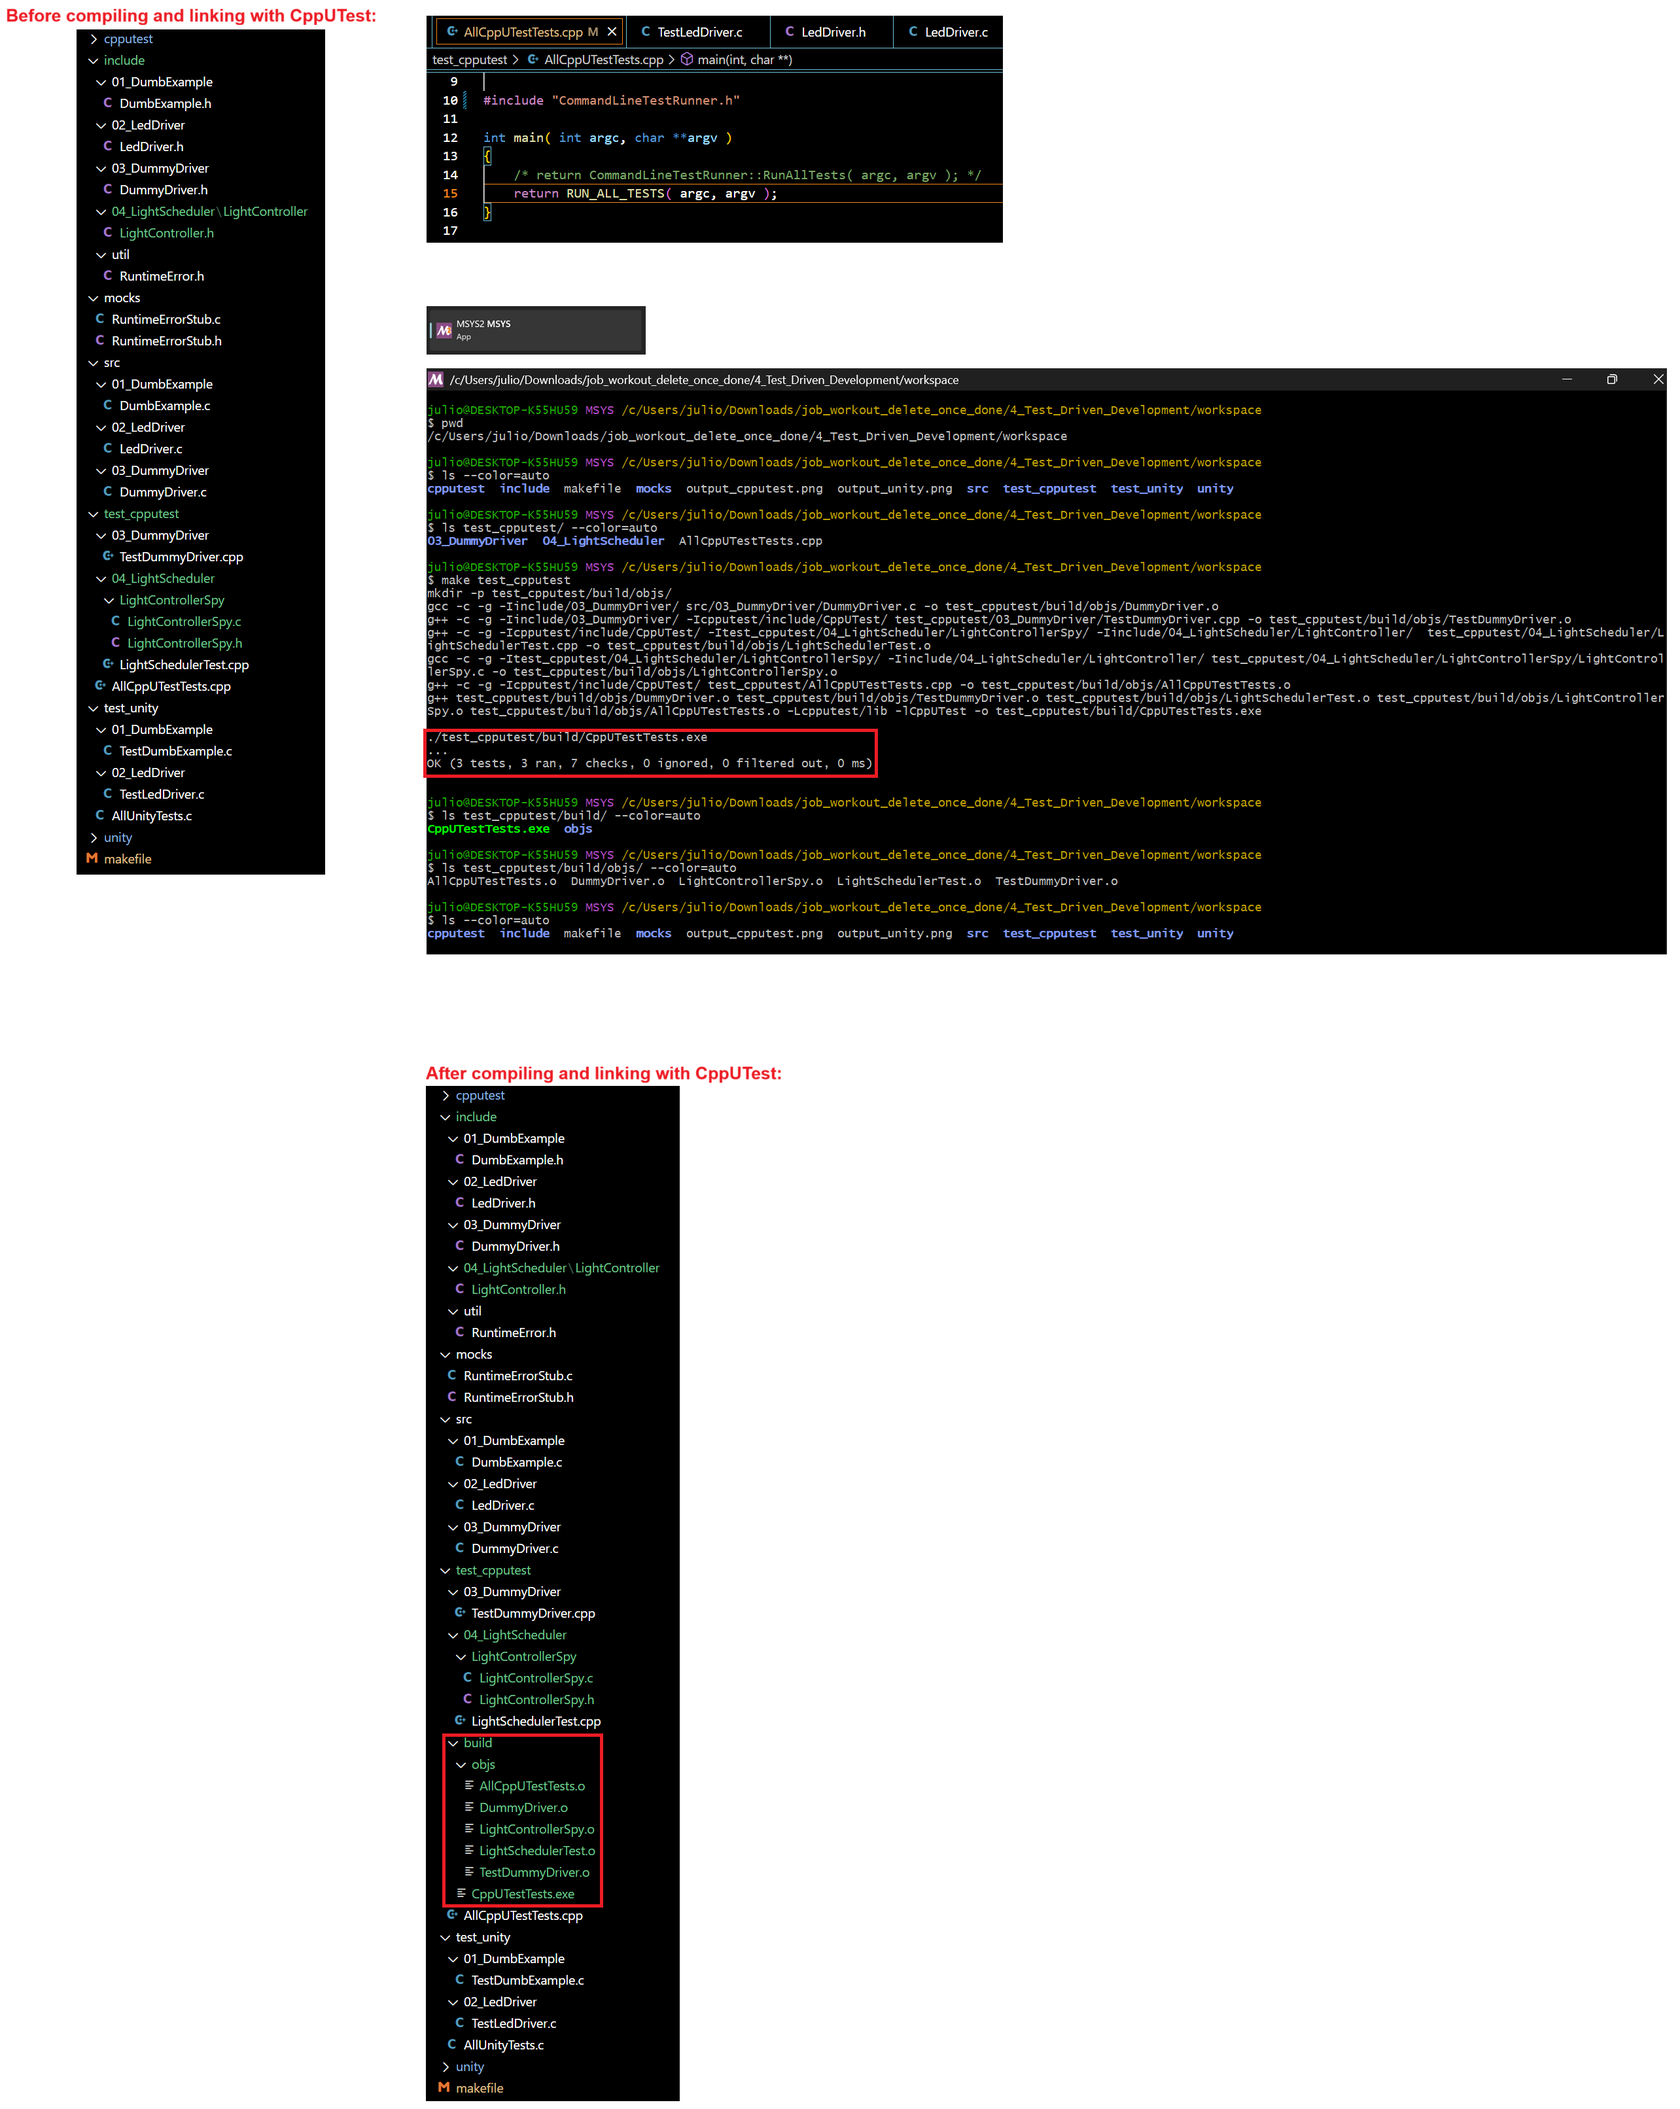
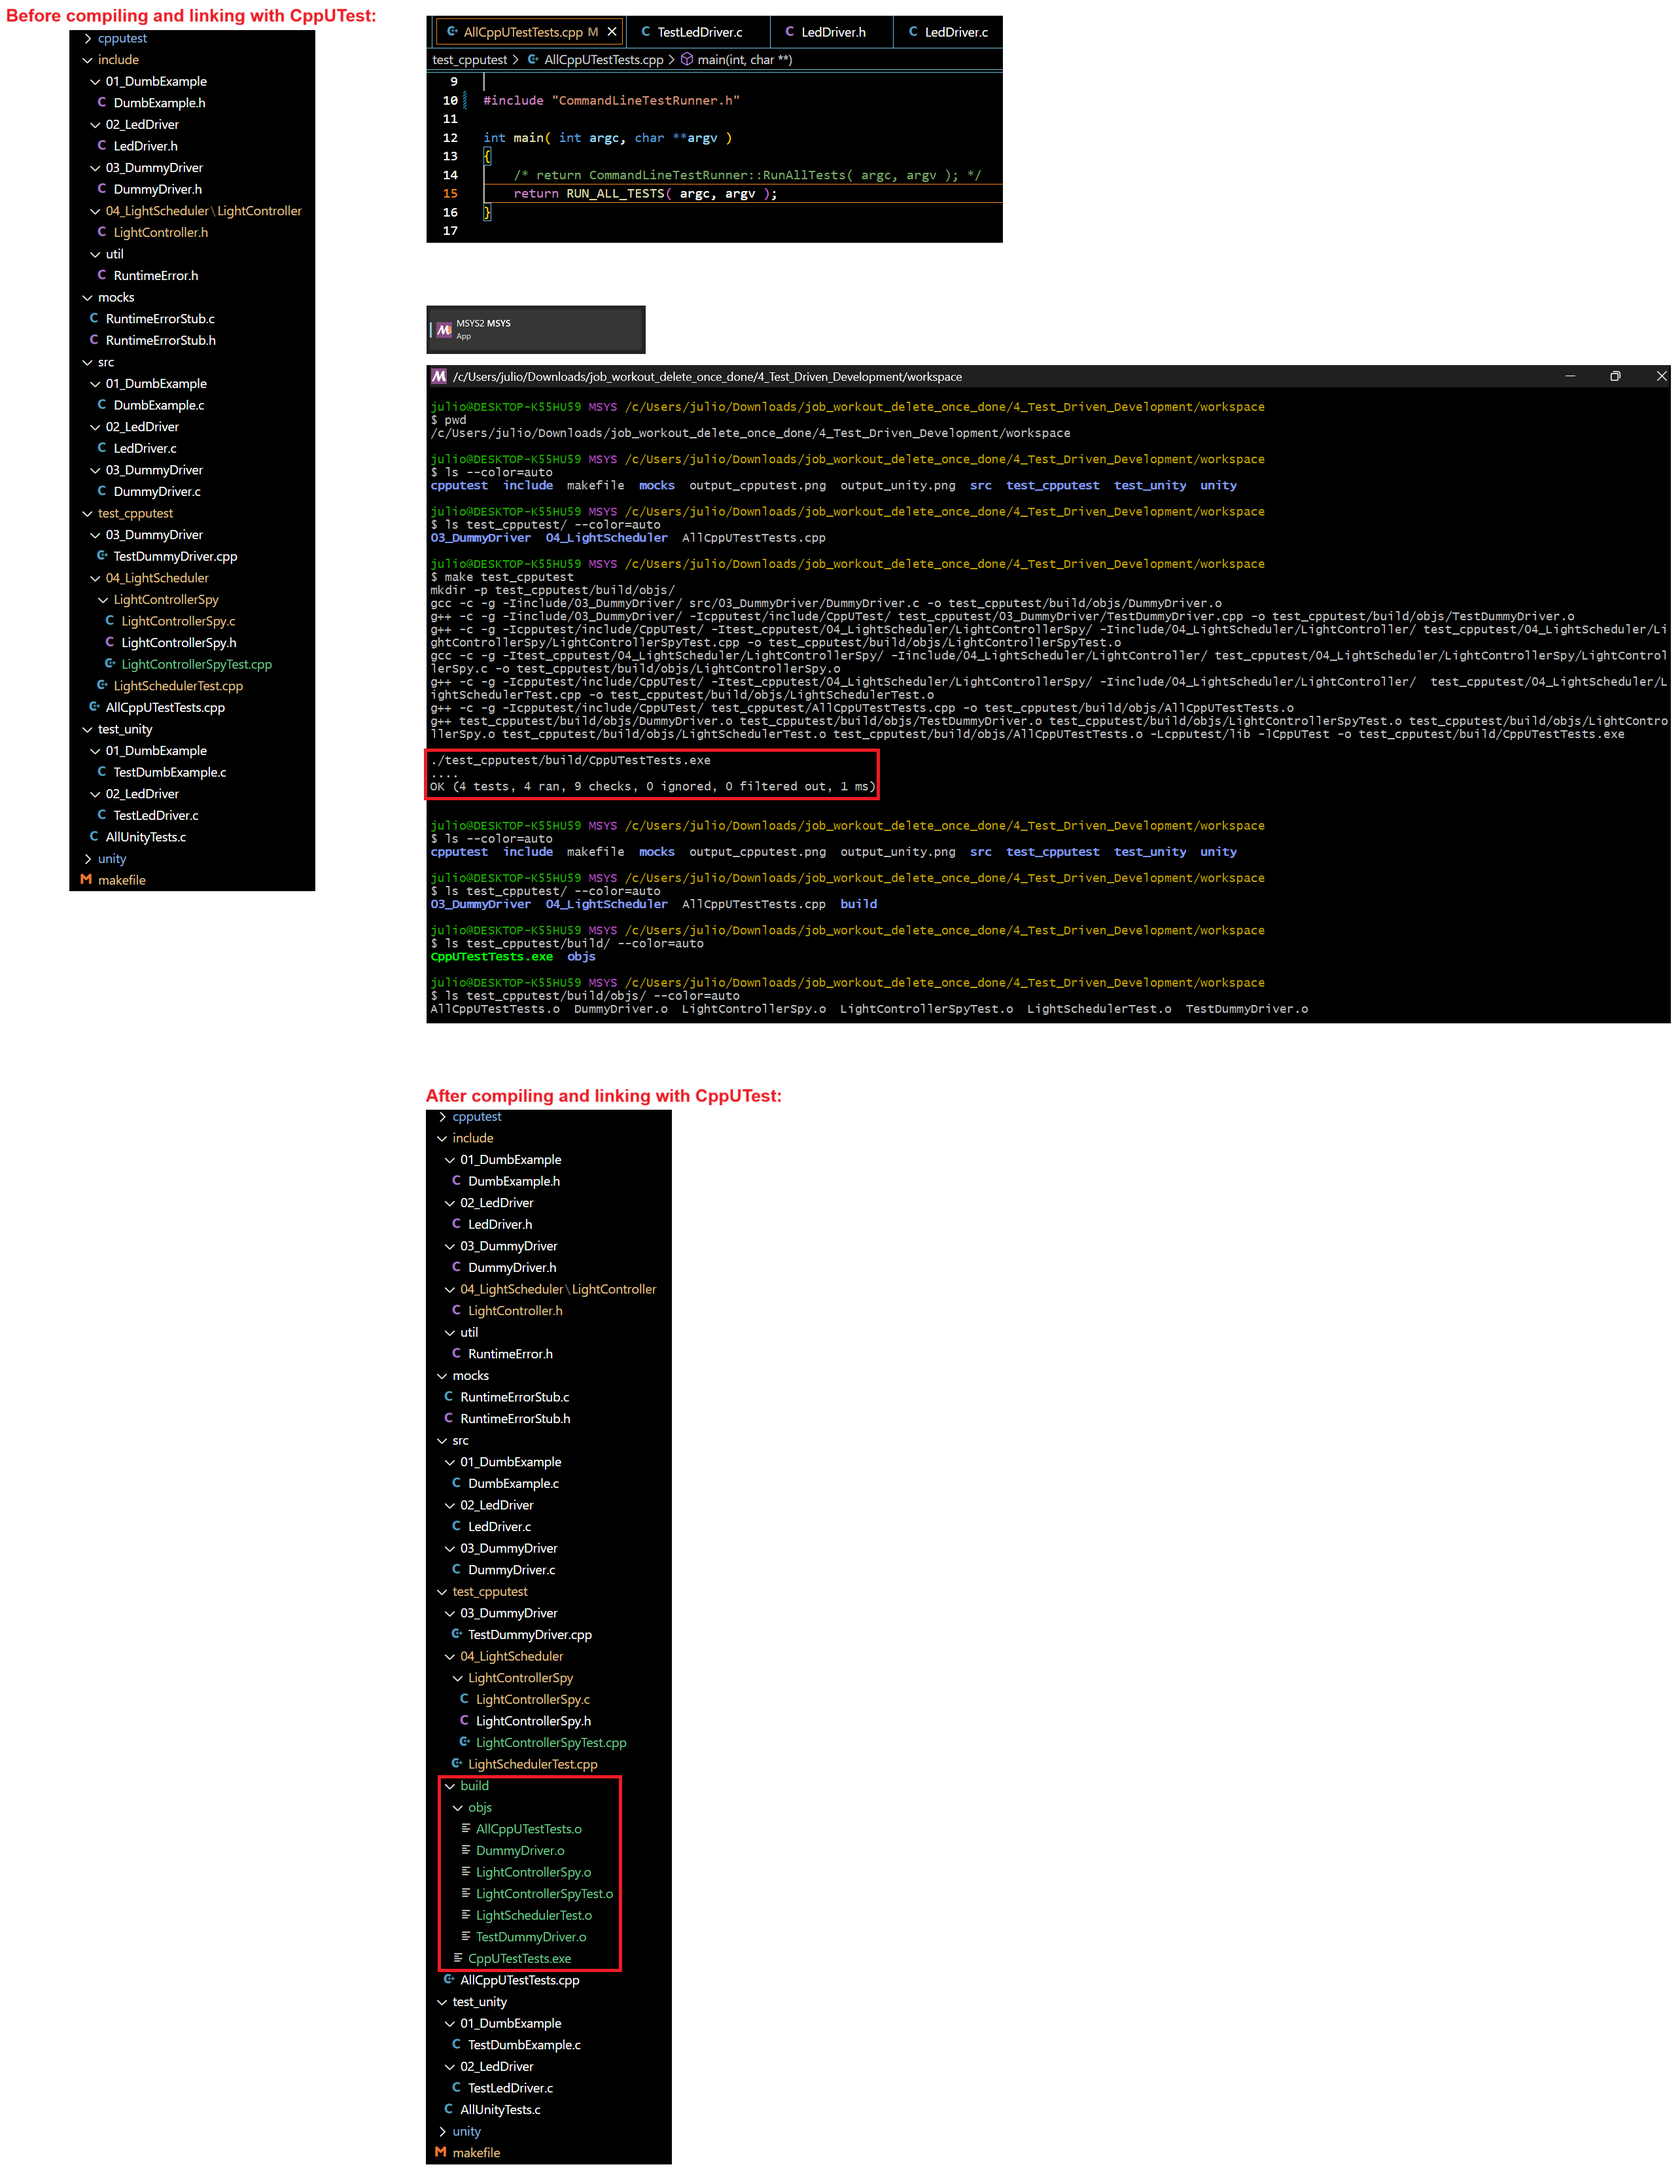
Add LightScheduler: LightControllerSpy Create test for Light Scheduler Initialization

Changed region(s): [[0.2492, 0.0, 0.9969, 1.0], [0.0312, 0.0, 0.2181, 0.4342]]

diff --git a/test_cpputest/04_LightScheduler/LightControllerSpy/LightControllerSpy.c b/test_cpputest/04_LightScheduler/LightControllerSpy/LightControllerSpy.c
@@ -8,30 +8,48 @@
  * 
  *          The spy can also feed return values to the CUT just like a test stub.
  * 
+ *          The spy's implementation defines a dead drop, made from file scope data,
+ *          where the spy stores intelligence during its covert operation.
+ * 
  * @version 0.1
  * @date    2025-03-31
  */
 
 #include "LightControllerSpy.h"
 
+static int lastId;    /* last light ID controlled */
+static int lastState; /* last light State controlled */
+
+/* Function that initializes the spy's dead drop.
+   LightController_Create() is originally implemented in LightController.c,
+   however since that makes it a DOC (Depended On Component) to the Light Scheduler module
+   (i.e. Light Scheduler module, depends on Light Controller module), it makes the Light Scheduler testing
+   very challenging due to those dependencies. For that we can use interfaces, test doubles and link-time
+   substitution to manage the problem dependencies. 
+
+   Here, we use a test double for LightController_Create(), which (originally implemented in LightController.c)
+   is substituted during link-time (so that it uses the test version from LightControllerSpy.c instead) */
+void LightController_Create( void )
+{
+   /* during initialization of the Light Controller driver, there are no scheduled events due, so that:
+      - the ID of the light that was last controlled has to be LIGHT_ID_UNKNOWN (no light control since initialization).
+      - the state of the light that was last controlled has to be LIGHT_STATE_UNKNOWN (the light has not been changed since initialization).
+      
+      This test double simulates that behavior */
+   lastId    = LIGHT_ID_UNKNOWN;
+   lastState = LIGHT_STATE_UNKNOWN;
+}
+
 /* this is a Light Controller spy function.
    Since there's no specific function for this purpose on production code, it is implemented with the name 'spy' on it */
 int LightControllerSpy_GetLastId( void )
 {
-   /* do the simplest thing to get the NoChangeToLightsDuringInitialization test to pass...
-      hard-coding it (we're doing test driven, the TESTS are right!,
-      even though production code is not right. Don't worry, production code
-      won't be hard-coded and incomplete for long) */
-   return LIGHT_ID_UNKNOWN;
+   return lastId;
 }
 
 /* this is a Light Controller spy function.
    Since there's no specific function for this purpose on produciton code, it is implemented with the name 'spy' on it */
 int LightControllerSpy_GetLastState( void )
 {
-   /* do the simplest thing to get the NoChangeToLightsDuringInitialization test to pass...
-      hard-coding it (we're doing test driven, the TESTS are right!,
-      even though production code is not right. Don't worry, production code
-      won't be hard-coded and incomplete for long) */
-   return LIGHT_STATE_UNKNOWN;
+   return lastState;
 }

diff --git a/test_cpputest/04_LightScheduler/LightSchedulerTest.cpp b/test_cpputest/04_LightScheduler/LightSchedulerTest.cpp
@@ -40,6 +40,7 @@ TEST_GROUP( LightScheduler )
     void setup()
     {
         /* initialization steps are executed before each TEST */ 
+        LightController_Create();
     }
  
     void teardown()
@@ -56,13 +57,11 @@ TEST( LightScheduler, NoChangeToLightsDuringInitialization )
        - The spy is interrogated after the "covert mission" by checking its "secret" test-only
          interface made up of LightControllerSpy_GetLastId() and
          LightControllerSpy_GetLastState()
-       - LightControllerSpy_GetLastId(): returns the ID of the light that was
-                                                        controlled or LIGHT_ID_UNKNOWN where
-                                                        there has been no light control
-       - LightControllerSpy_GetLastState(): returns LIGHT_OFF, LIGHT_ON or LIGHT_STATE_UNKNOWN.
-                                                           LIGHT_STATE_UNKNOWN means the light has not been
-                                                           changed since initialization
-       - if the mission is "successful", the interrogation should show that no light instructions were given
+       - LightControllerSpy_GetLastId(): returns the ID of the light that was controlled
+                                         or LIGHT_ID_UNKNOWN where there has been no light control.
+       - LightControllerSpy_GetLastState(): returns LIGHT_OFF, LIGHT_ON or LIGHT_STATE_UNKNOWN
+                                            LIGHT_STATE_UNKNOWN means the light has not been changed since initialization.
+       - if the mission is "successful", the interrogation should show that no light instructions were given.
 
        The test checks the expected outcome */
 

diff --git a/test_cpputest/04_LightScheduler/LightControllerSpy/LightControllerSpyTest.cpp b/test_cpputest/04_LightScheduler/LightControllerSpy/LightControllerSpyTest.cpp
@@ -1,0 +1,44 @@
+/**
+ * @file    LightControllerSpyTest.cpp
+ * @author  Julio Cesar Bernal Mendez
+ * @brief   Light Controller (Spy) test source file containing the test cases
+ *          and test group for the Light Controller (Spy) module used inside the Light Scheduler module.
+ 
+ * @version 0.1
+ * @date    2025-04-02
+ */
+
+extern "C"
+{
+    /* includes for things with C linkage */
+    #include "LightControllerSpy.h"
+}
+
+/* includes for things with C++ linkage */
+#include "TestHarness.h"
+ 
+TEST_GROUP( LightControllerSpy )
+{
+    /* define data accessible to test group members here */
+ 
+    void setup()
+    {
+        /* initialization steps are executed before each TEST */
+        LightController_Create();
+    }
+ 
+    void teardown()
+    {
+        /* clean up steps are executed after each TEST */
+    }
+};
+
+TEST( LightControllerSpy, Create )
+{
+    /* This test looks exactly the same as NoChangeToLightsDuringInitialization from LightScheduler,
+       the reason is because here we're testing the initialization of the Light Controller Spy in isolation,
+       while the Light Scheduler tests the interaction between the Light Controller and other modules
+       (Time Service, which has not been included yet) */
+    LONGS_EQUAL( LIGHT_ID_UNKNOWN, LightControllerSpy_GetLastId() );
+    LONGS_EQUAL( LIGHT_STATE_UNKNOWN, LightControllerSpy_GetLastState() );
+}

diff --git a/include/04_LightScheduler/LightController/LightController.h b/include/04_LightScheduler/LightController/LightController.h
@@ -11,12 +11,12 @@
 #define LIGHTCONTROLLER_H
 
     /* These are the function prototypes for the Light Controller module production source code
-       (LightController.c). Because the Light Scheduler module (which depends on Light Controller module)
-       is under test, some of the LightController.c function implementations are overriden with the spy
+       (LightController.c). Because the Light Scheduler module (which depends on the Light Controller module)
+       is under test, some of the LightController.c function implementations are overriden with the spy's
        implementations in LightControllerSpy.c (this takes place during the linking stage).
        Therefore there's no src/04_LightScheduler/LightController.c file in the project,
        simply because the test code "does not need it" (at least for the time being) */
     
-    /* INTERFACES TO BE DEFINED. THEY WILL BE DRIVEN BY THE TEST CODE (THIS IS TDD!) */
+    void LightController_Create( void );
 
 #endif
